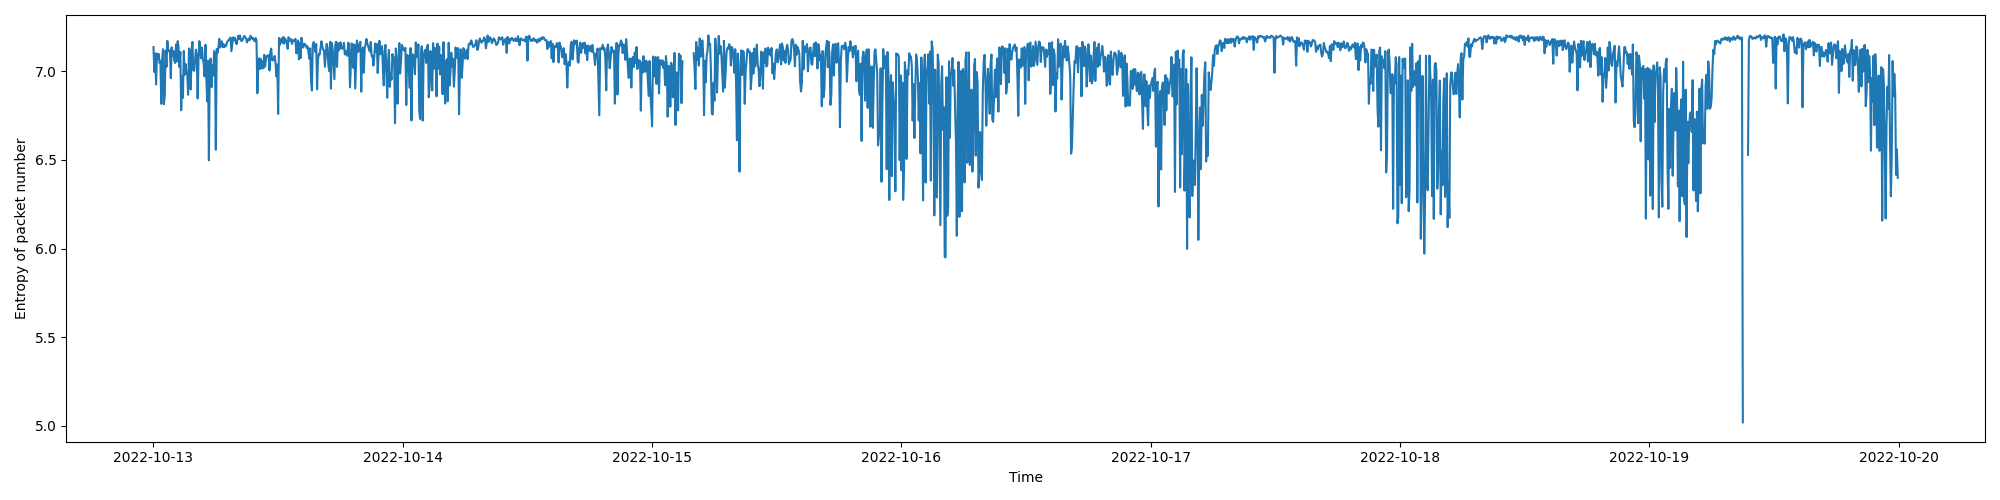
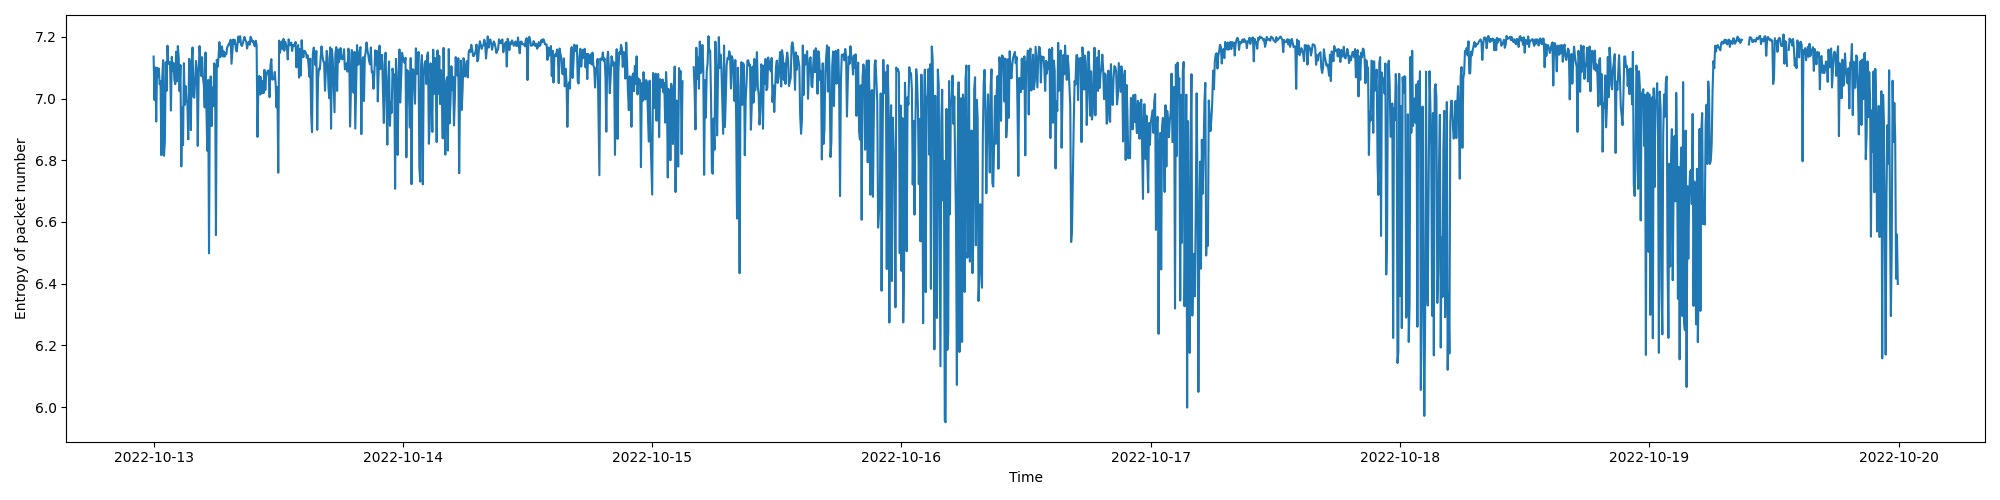
Bug fixes

diff --git a/EntropyTelemetry/PacketSizeDistribution.py b/EntropyTelemetry/PacketSizeDistribution.py
@@ -10,19 +10,19 @@ def packetSizeDistribution(dfEgressBytes, dfEgressPackets):
     numberOfPacketsOfSizei = np.zeros(1514)
     packetSize = []
     for i in range(len(egressBytes)):
-        '''if bytesTime != packetsTime:
-            '''
-        packetSize.append(egressBytes[i]/egressPackets[i])
-        #print(bytesTime[i], "      :      ",packetsTime[i] )
-
+        if egressPackets[i] == 0:
+            packetSize.append(0)
+        else:
+            packetSize.append(egressBytes[i]/egressPackets[i])
     
     for value in packetSize:
         numberOfPacketsOfSizei[int(value)] += 1
+        
     
     Pi = []
     sumOfNP = sum(numberOfPacketsOfSizei)
     for value in packetSize:
         Pi.append(numberOfPacketsOfSizei[int(value)]/sumOfNP)
-
+    
     return Pi, np.count_nonzero(numberOfPacketsOfSizei)
     

diff --git a/EntropyTelemetry/Detection.py b/EntropyTelemetry/Detection.py
@@ -46,8 +46,8 @@ def detection(systemId, if_name):
         dfEgressBytes = getData(startTime.strftime("%Y-%m-%dT%H:%M:%SZ"), stopTime.strftime("%Y-%m-%dT%H:%M:%SZ"),systemId, if_name, "egress_stats__if_1sec_octets")
         dfEgressPackets = getData(startTime.strftime("%Y-%m-%dT%H:%M:%SZ"), stopTime.strftime("%Y-%m-%dT%H:%M:%SZ"),systemId, if_name, "egress_stats__if_1sec_pkts")
         startTime = stopTime
-        
-        if dfEgressBytes.empty or dfEgressPackets.empty:
+
+        if len(dfEgressBytes) <130 or len(dfEgressPackets) <130:
             packetSizeArray.append(None)
             packetNumberArray.append(None)
             packetSizeRateArray.append(None)
